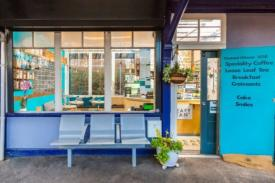
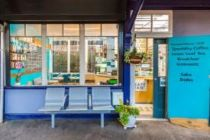
embed images

diff --git a/src/styles.css b/src/styles.css
@@ -211,8 +211,7 @@ section.secondary {
 }
 
 .embed {
-  width: 180px;
-  height: 275px;
+  width: 150px;
   aspect-ratio: 1/1;
 }
 
